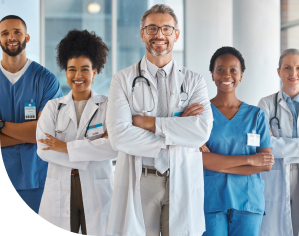
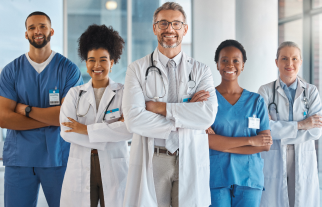
fix: :bug: adjusting talk to us screen in small cell phones

diff --git a/src/templates/TalkToUsScreen/index.tsx b/src/templates/TalkToUsScreen/index.tsx
@@ -16,56 +16,67 @@ export default function TalkToUsScreen(): JSX.Element {
         mainOptions={false}
       >
         <div className="mb-10 mt-20 flex w-full flex-col gap-5 lg:flex-row">
+          <div
+            className="h-[202px] bg-cover bg-no-repeat md:h-[376px] lg:hidden"
+            style={{
+              backgroundImage: `url('/assets/images/banner-talk-to-us-2.png')`,
+            }}
+          />
           <ContactUsForm />
 
           <div className="flex flex-col">
-            <InfoCard roundedSide="left">
-              <h2 className="text-3xl font-bold text-white">
-                Contato para Negócios
-              </h2>
-              <p className="text-lg text-white">
-                A área de Novos Negócios atua como mecanismo estratégico,
-                buscando oportunidades no cenário nacional e internacional no
-                intuito de agregar valor ao portfólio de clínicas e parcerias do
-                Grupo Oncoclínicas.
-              </p>
-
-              <div className="flex flex-col">
-                <p className="text-3xl font-bold text-white">
-                  Área de Novos Negócios
+            <div className="flex w-auto flex-col overflow-hidden rounded-bl-[100px] bg-white">
+              <div
+                className="hidden h-[376px] bg-cover bg-no-repeat lg:block"
+                style={{
+                  backgroundImage: `url('/assets/images/banner-talk-to-us-2.png')`,
+                }}
+              />
+              <div className="flex min-h-[292px] w-full flex-col justify-between gap-12 rounded-bl-[100px] bg-gradient-to-br from-primary-foreground to-secondary-foreground px-6 py-8 md:px-14">
+                <h2 className="text-2xl font-bold text-white md:text-3xl">
+                  Contato para Negócios
+                </h2>
+                <p className="text-base text-white md:text-xl">
+                  A área de Novos Negócios atua como mecanismo estratégico,
+                  buscando oportunidades no cenário nacional e internacional no
+                  intuito de agregar valor ao portfólio de clínicas e parcerias
+                  do Grupo Oncoclínicas.
                 </p>
-                <Link
-                  href="mailto:novosnegocios@onoclinicas.com"
-                  className="text-lg text-white underline"
-                >
-                  novosnegocios@onoclinicas.com
-                </Link>
 
-                <p className="mt-4 text-3xl text-white">
-                  <strong>Fornecedores</strong>
-                  <br />
-                </p>
-                <Link
-                  href="mailto:comprasdiversas@onoclinicas.com"
-                  className="text-lg text-white underline"
-                >
-                  comprasdiversas@onoclinicas.com
-                </Link>
+                <div className="flex flex-col">
+                  <p className="text-2xl font-bold text-white md:text-3xl">
+                    Área de Novos Negócios
+                  </p>
+                  <Link
+                    href="mailto:novosnegocios@onoclinicas.com"
+                    className="text-lg text-white underline"
+                  >
+                    novosnegocios@onoclinicas.com
+                  </Link>
+
+                  <p className="mt-4 text-2xl text-white md:text-3xl">
+                    <strong>Fornecedores</strong>
+                    <br />
+                  </p>
+                  <Link
+                    href="mailto:comprasdiversas@onoclinicas.com"
+                    className="mb-10 text-lg text-white underline md:mb-0"
+                  >
+                    comprasdiversas@onoclinicas.com
+                  </Link>
+                </div>
               </div>
-            </InfoCard>
+            </div>
 
-            <div className="mt-10 flex rounded-bl-full">
-              <div>
-                <Image
-                  width={299}
-                  height={236}
-                  radius="none"
+            <div className="mt-10 md:flex">
+              <div className="">
+                <img
                   alt="Imagem de conheça"
                   src="/assets/images/banner-talk-to-us.png"
-                  className="size-full"
+                  className="size-full max-h-[254px] rounded-none object-cover md:rounded-bl-[100px]"
                 />
               </div>
-              <div className="flex w-4/5 flex-col items-center justify-center bg-aquaLight">
+              <div className="flex flex-col items-center justify-center rounded-bl-[100px] bg-aquaLight py-10 md:w-4/5 md:rounded-none">
                 <Image
                   src="https://grupooncoclinicas.com/wp-content/themes/grupo-oncoclinicas/assets/imgs/header/oncoclinicas.svg"
                   alt="Logo"

diff --git a/src/components/InfoCard/index.tsx b/src/components/InfoCard/index.tsx
@@ -8,18 +8,24 @@ export default function InfoCard({
 }: MedicalServiceCardProps): JSX.Element {
   return (
     <div
-      className={`flex w-auto flex-col overflow-hidden ${roundedSide === "left" ? "rounded-bl-[100px]" : "rounded-br-[100px]"} bg-white`}
+      className={`flex w-auto flex-col overflow-hidden ${
+        roundedSide === "left" ? "rounded-bl-[100px]" : "rounded-br-[100px]"
+      } bg-white`}
     >
       <div
         className="h-[376px] bg-cover bg-no-repeat"
         style={{
-          backgroundImage:
-            backgroundImageUrl ??
-            "url('https://i.postimg.cc/3xkfhr8J/Captura-de-tela-2024-09-27-134021.png')",
+          backgroundImage: `url('${
+            backgroundImageUrl
+              ? `/assets/images/${backgroundImageUrl}`
+              : "https://i.postimg.cc/3xkfhr8J/Captura-de-tela-2024-09-27-134021.png"
+          }')`,
         }}
       />
       <div
-        className={`flex min-h-[292px] w-full flex-col justify-between gap-12 ${roundedSide === "left" ? "rounded-bl-[100px]" : "rounded-br-[100px]"} bg-gradient-to-br from-primary-foreground to-secondary-foreground px-14 py-8`}
+        className={`flex min-h-[292px] w-full flex-col justify-between gap-12 ${
+          roundedSide === "left" ? "rounded-bl-[100px]" : "rounded-br-[100px]"
+        } bg-gradient-to-br from-primary-foreground to-secondary-foreground px-14 py-8`}
       >
         {children}
       </div>
